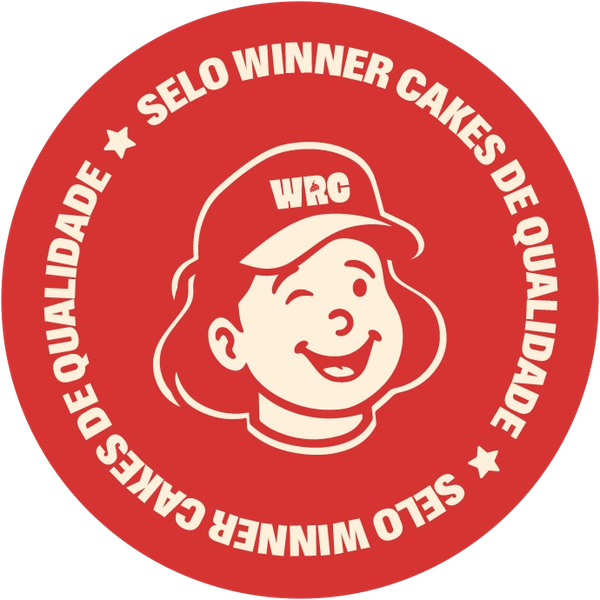
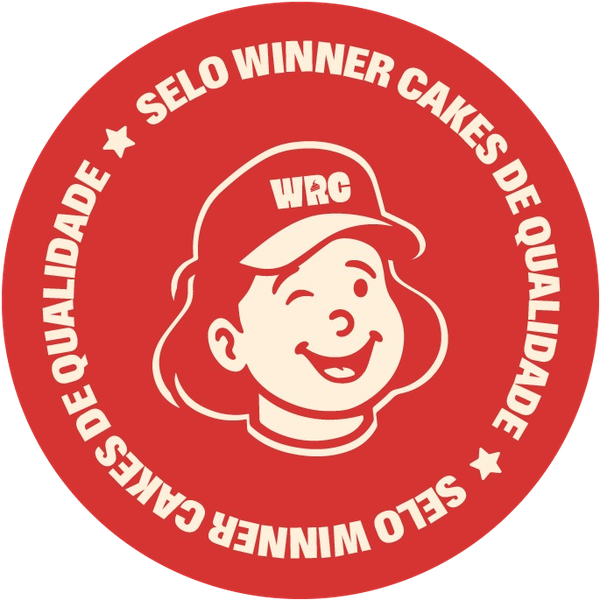
Abertura: selo sem o fundo claro em volta
Claude-Session: https://claude.ai/code/session_01M8GsYpg6K6JtessUmWTdxo

diff --git a/apps/web/app/globals.css b/apps/web/app/globals.css
@@ -351,7 +351,11 @@
   transition: opacity 0.4s ease;
 }
 .store-splash-logo.is-loaded { opacity: 1; }
-/* Selo redondo: ocupa o disco inteiro, sem mesclar com o fundo creme. */
+/* Selo redondo: ocupa o disco inteiro, sem o fundo creme em volta. */
+.store-splash-disc.has-seal {
+  background: transparent;
+  box-shadow: 0 0 60px -6px rgba(255, 199, 44, 0.55);
+}
 .store-splash-logo.is-seal { width: 100%; height: 100%; mix-blend-mode: normal; }
 .store-splash-initial {
   font-family: var(--font-display), Georgia, serif;

diff --git a/apps/web/components/store/SplashIntro.tsx b/apps/web/components/store/SplashIntro.tsx
@@ -131,7 +131,7 @@ export function SplashIntro({ logoUrl, name, ready }: { logoUrl?: string; name: 
             />
           ))}
 
-        <div className="store-splash-disc">
+        <div className={`store-splash-disc ${logo === SPLASH_SEAL ? "has-seal" : ""}`}>
           {logo ? (
             // eslint-disable-next-line @next/next/no-img-element
             <img
